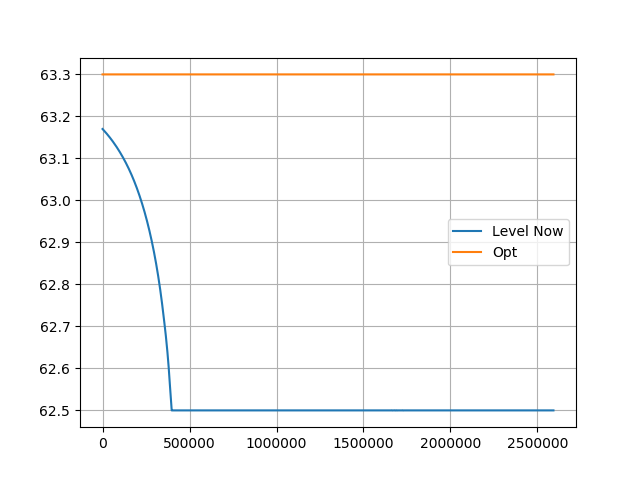
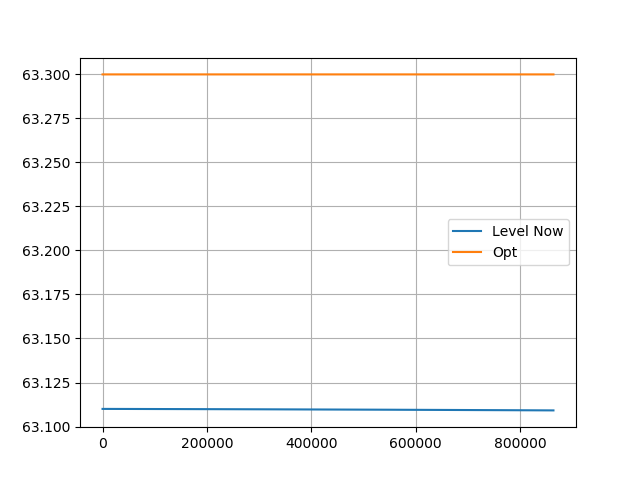
Ver_0.2

diff --git a/GES_Kaskad.py b/GES_Kaskad.py
@@ -20,7 +20,7 @@ class GES():
         self.S_ZERKALA = S_ZERKALA
         self.MAX_SBROS = MAX_SBROS
 
-    def compare(self, current_Level, prit):
+    def compare(self, current_Level, prit, rashod, proc_now, TIME_FOR_FULL_OPEN):
         if current_Level < self.NPU * 1.00001 and current_Level > self.NPU * 0.9999999:
             treb_proc = prit / V_to_H(self.MAX_SBROS, self.S_ZERKALA)
             if treb_proc > 1:
@@ -31,8 +31,17 @@ class GES():
                 if (current_Level - self.UMO) > 0:
                     treb_proc = -(math.log10((current_Level - self.UMO) / (self.NPU - self.UMO)))
                     # print(treb_proc, 'menishe')
+                    # print(prit,rashod)
+
+                    if prit * self.delay(treb_proc, proc_now, TIME_FOR_FULL_OPEN) > rashod:
+                        treb_proc = treb_proc - 1 / TIME_FOR_FULL_OPEN
+                        # print(treb_proc)
+                    if treb_proc <= 0:
+                        treb_proc = 0
                     if treb_proc > 1:
                         treb_proc = 1
+                    print(treb_proc)
+
                     return treb_proc
                 else:
                     return 0
@@ -53,9 +62,7 @@ class GES():
         proc_v_sec = 1 / TIME_FOR_FULL_OPEN
         if proctreb < 0:
             return 0
-        if (proctreb - procnow) > proc_v_sec:
-            #if proctreb < procnow+proc_v_sec and proctreb>proc_v_sec+procnow:
-             #   procnow = proctreb
+        if abs((proctreb - procnow)) > proc_v_sec:
             if proctreb > procnow:
                 procnow = procnow + proc_v_sec
             if proctreb < procnow:
@@ -89,22 +96,22 @@ def momental_rash_prolong_na_den(voda_v_sec):
 
 
 def main():
-    file_name = os.getcwd()+'\\GES_DATA.json'
+    file_name = os.getcwd() + '\\GES_DATA.json'
     DATA = Grafiki_Ischod.get_struct(file_name)
-    period = 30
+    period = 10
     S_ZERKALA_1 = 4550 * 1000 * 1000
-    MAX_RASHOD_1 = 10000
-    VREMYA_POLNOGO_OTKR_1 = 60
+    MAX_RASHOD_1 = 1000
+    VREMYA_POLNOGO_OTKR_1 = 600
     S_ZERKALA_2 = 1591 * 1000 * 1000
-    MAX_RASHOD_2 = 10000
-    VREMYA_POLNOGO_OTKR_2 = 60
+    MAX_RASHOD_2 = 300
+    VREMYA_POLNOGO_OTKR_2 = 600
     S_ZERKALA_3 = 1508 * 1000 * 1000
-    MAX_RASHOD_3 = 10000
-    VREMYA_POLNOGO_OTKR_3 = 60
+    MAX_RASHOD_3 = 100
+    VREMYA_POLNOGO_OTKR_3 = 600
     deltatime = datetime.timedelta(period)
-    dateStart = datetime.datetime(2018, 6, 1)
+    dateStart = datetime.datetime(2018, 8, 1)
     datenow = dateStart
-    time = 24 * 60 * 60
+    time = 24*60*60
     levels = []
     name = 'rybinsk'
     name1 = 'nijegorod'
@@ -112,14 +119,12 @@ def main():
     levels1 = []
     levels2 = []
     levels3 = []
-    proc_now2 = 0
-    proc_now3 = 0
     pritok1 = []
     pritok2 = []
     pritok3 = []
-    raschod1 = []
-    raschod2 = []
-    raschod3 = []
+    raschod1mas = []
+    raschod2mas = []
+    raschod3mas = []
     procs_open = []
     datenow_str = str(datenow)
     ges1 = GES(DATA[name][datenow_str], S_ZERKALA_1, MAX_RASHOD_1)
@@ -128,7 +133,12 @@ def main():
     current_levels = [ges1.Level, ges2.Level, ges3.Level]
     times = [i for i in range(1, time)]
     proc_now = 0
+    proc_now2 = 0
+    proc_now3 = 0
     proc_treb = []
+    raschod1 = 0
+    raschod2 = 0
+    raschod3 = 0
     while datenow - dateStart < deltatime:
         datenow_str = str(datenow)
         print('Date\n', datenow, '\n')
@@ -141,35 +151,38 @@ def main():
             prit = V_to_H(raspred_na_den_with_noise(ges1.PRITOK), ges1.S_ZERKALA, )
             pritok1.append(prit)
             current_level = prit + current_levels[0]
-            proc_treb.append((ges1.compare(current_level, prit)))
-            proc_now = ges1.delay((ges1.compare(current_level, prit)), proc_now, VREMYA_POLNOGO_OTKR_1)
+            #proc_treb.append((ges1.compare(current_level, prit, raschod1, proc_now, VREMYA_POLNOGO_OTKR_1)))
+            proc_now = ges1.delay((ges1.compare(current_level, prit, raschod1, proc_now, VREMYA_POLNOGO_OTKR_1)),
+                                  proc_now, VREMYA_POLNOGO_OTKR_1)
             # print(proc_now)
-            raschod = V_to_H(ges1.MAX_SBROS, ges1.S_ZERKALA) * proc_now
-            raschod1.append(raschod)
-            current_levels[0] = current_level - raschod
-            prit = V_to_H(H_to_V(raspred_na_den_with_noise(raschod), ges1.S_ZERKALA, ) ,
+            raschod1 = V_to_H(ges1.MAX_SBROS, ges1.S_ZERKALA) * proc_now
+            raschod1mas.append(raschod1)
+            current_levels[0] = current_level - raschod1
+            prit = V_to_H(H_to_V(raspred_na_den_with_noise(raschod1), ges1.S_ZERKALA, ),
                           ges2.S_ZERKALA)
             # print(raschod,prit)
             pritok2.append(prit)
             current_level = prit + current_levels[1]
-            proc_treb.append((ges2.compare(current_level, prit)))
-            proc_now2 = ges2.delay((ges2.compare(current_level, prit)), proc_now2, VREMYA_POLNOGO_OTKR_2)
-            raschod = V_to_H(ges2.MAX_SBROS, ges2.S_ZERKALA) * proc_now2
-            raschod2.append(raschod)
-            current_levels[1] = current_level - raschod
-            prit = V_to_H(H_to_V(raspred_na_den_with_noise(raschod), ges2.S_ZERKALA, ) ,
+            #proc_treb.append((ges2.compare(current_level, prit, raschod2, proc_now2, VREMYA_POLNOGO_OTKR_2)))
+            proc_now2 = ges2.delay((ges2.compare(current_level, prit, raschod2, proc_now2, VREMYA_POLNOGO_OTKR_2)),
+                                   proc_now2, VREMYA_POLNOGO_OTKR_2)
+            raschod2 = V_to_H(ges2.MAX_SBROS, ges2.S_ZERKALA) * proc_now2
+            raschod2mas.append(raschod2)
+            current_levels[1] = current_level - raschod2
+            prit = V_to_H(H_to_V(raspred_na_den_with_noise(raschod2), ges2.S_ZERKALA, ),
                           ges3.S_ZERKALA)
             pritok3.append(prit)
             current_level = prit + current_levels[2]
-            proc_treb.append((ges3.compare(current_level, prit)))
-            proc_now3 = ges3.delay((ges3.compare(current_level, prit)), proc_now3, VREMYA_POLNOGO_OTKR_3)
-            raschod = V_to_H(ges3.MAX_SBROS, ges3.S_ZERKALA) * proc_now3
-            raschod3.append(raschod)
-            current_levels[2] = current_level - raschod
+            #proc_treb.append((ges3.compare(current_level, prit, raschod3, proc_now3, VREMYA_POLNOGO_OTKR_3)))
+            proc_now3 = ges3.delay((ges3.compare(current_level, prit, raschod3, proc_now3, VREMYA_POLNOGO_OTKR_3)),
+                                   proc_now3, VREMYA_POLNOGO_OTKR_3)
+            raschod3 = V_to_H(ges3.MAX_SBROS, ges3.S_ZERKALA) * proc_now3
+            raschod3mas.append(raschod3)
+            current_levels[2] = current_level - raschod3
             levels1.append(current_levels[0])
             levels2.append(current_levels[1])
             levels3.append(current_levels[2])
-            procs_open.append(proc_now)
+            # procs_open.append(proc_now)
             # print(proc_now,proc_now2,proc_now3)
         datenow = datenow + datetime.timedelta(1)
     # print(procs_open)
@@ -197,19 +210,19 @@ def main():
     plt.savefig('3.png')
     fig = plt.figure()
     plt.plot([i for i in range(len(levels1))], pritok1, label='prit')
-    plt.plot([i for i in range(len(levels1))], raschod3, label='raschd')
+    plt.plot([i for i in range(len(levels1))], raschod3mas, label='raschd')
     plt.legend()
     plt.grid()
     plt.savefig('4.png')
     fig = plt.figure()
     plt.plot([i for i in range(len(levels2))], pritok2, label='prit')
-    plt.plot([i for i in range(len(levels2))], raschod2, label='raschd')
+    plt.plot([i for i in range(len(levels2))], raschod2mas, label='raschd')
     plt.legend()
     plt.grid()
     plt.savefig('5.png')
     fig = plt.figure()
     plt.plot([i for i in range(len(levels3))], pritok3, label='prit')
-    plt.plot([i for i in range(len(levels3))], raschod3, label='rashod')
+    plt.plot([i for i in range(len(levels3))], raschod3mas, label='rashod')
     plt.legend()
     plt.grid()
     plt.savefig('6.png')
